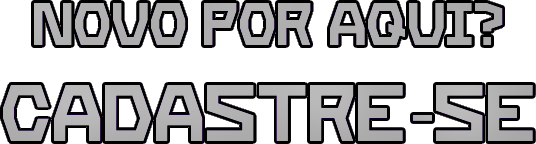
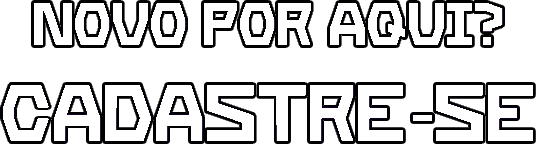
Ajusta título do cadastro para branco e alinha dicas à direita
Recolore o título "Novo por aqui? Cadastre-se" de cinza para branco,
mantendo o contorno preto, e alinha as dicas entre colchetes (USER,
EMAIL) à direita do formulário em vez de coladas no rótulo.

diff --git a/src/components/Login.jsx b/src/components/Login.jsx
@@ -263,7 +263,7 @@ function Login() {
             <img
               src={tituloCadastro}
               alt="Novo por aqui? Cadastre-se"
-              style={{ position: 'absolute', top: '27.9%', left: '20.6%', width: '58.7%' }}
+              style={{ position: 'absolute', top: '27.9%', left: '20.6%', width: '58.7%' , color: '#FAFAFA'}}
             />
           </div>
 
@@ -445,6 +445,7 @@ const styles = {
   linhaLabel: {
     display: 'flex',
     alignItems: 'baseline',
+    justifyContent: 'space-between',
     gap: '10px',
     marginBottom: '6px',
     flexWrap: 'wrap',
